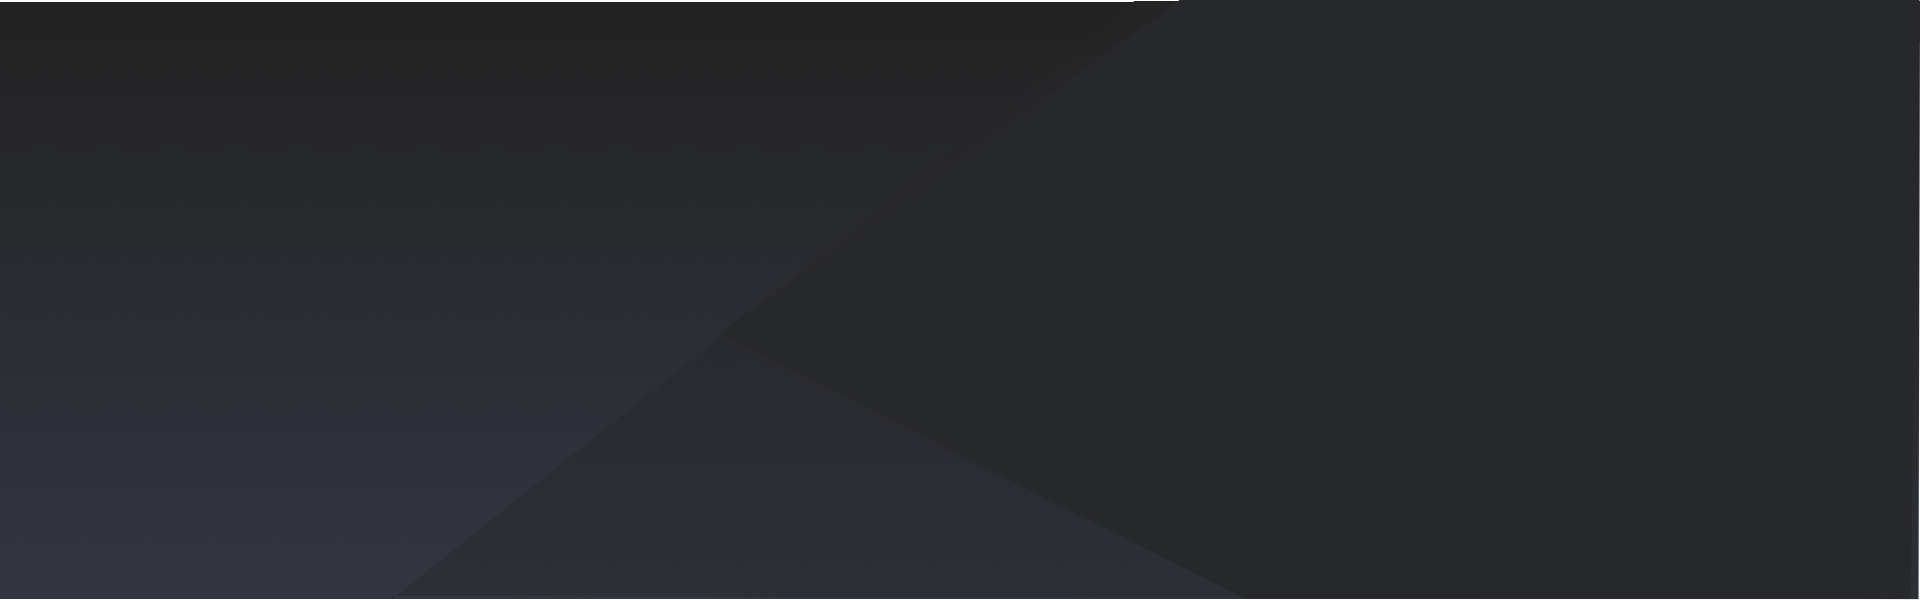
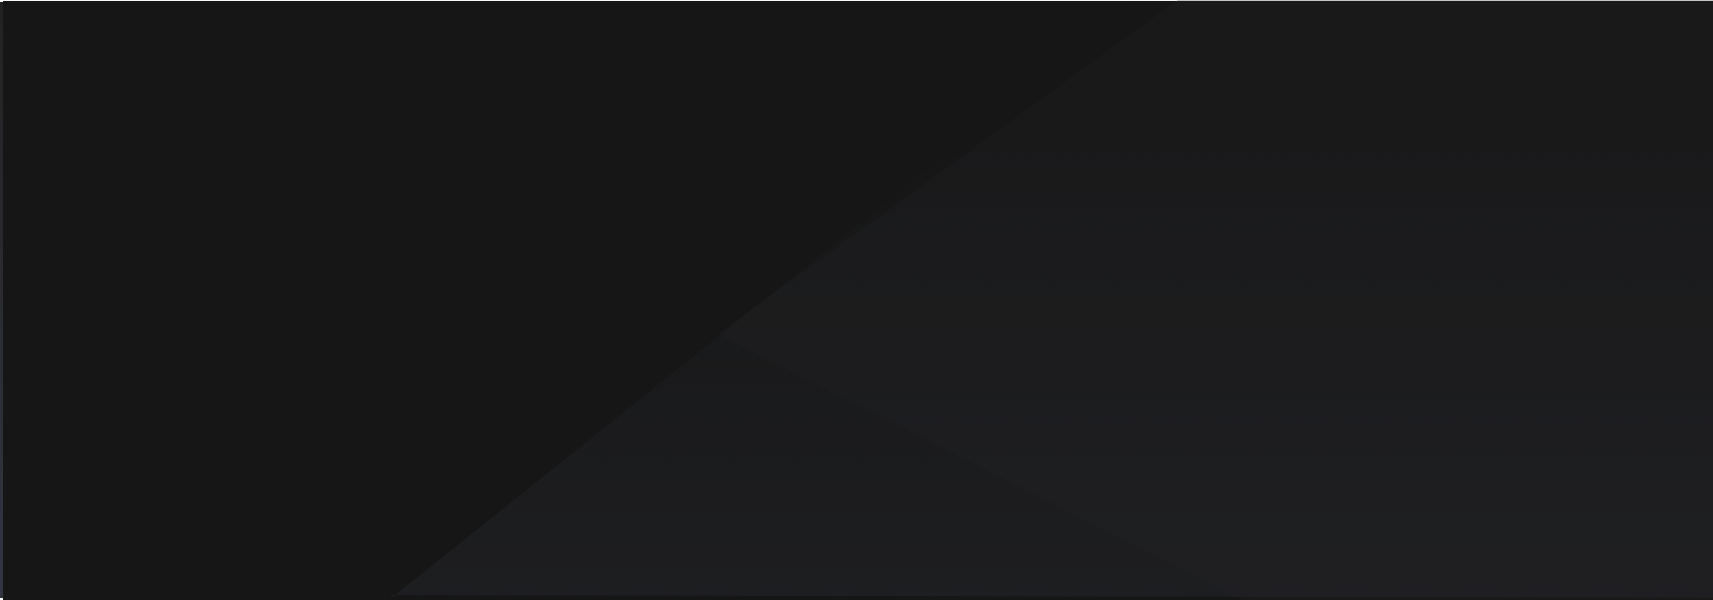
s

Changed region(s): [[0.0, 0.39, 1.0, 1.0]]

diff --git a/src/views/front/selecone/cloudmarket.vue b/src/views/front/selecone/cloudmarket.vue
@@ -148,12 +148,12 @@
     z-index:999999999;
 }
 
-.el-message-box__header{
-    background:#da121a !important;
-    border:1px solid #da121a !important;
-}
+
 .el-message-box__title span{
-    color:#fff !important;
+    color:#000 !important;
+}
+.el-message-box__headerbtn .el-message-box__close{
+    color:#da121a !important;
 }
 .el-message-box__headerbtn{
     top:8 !important
@@ -171,6 +171,7 @@
 .clofont span{
     font-size:14px;
     color:#999999;
+    padding-left:10px;
 }
 .el-dialog{
     
@@ -506,6 +507,14 @@
             display:inline-block;
             font-size:14px;
             color:#333333;
+
+        }
+        .spanbot{
+            float:left;
+        }
+        .spanbos{
+            float:right;
+            margin-left:0 !important;
         }
         .el-message-box{
             width:280px !important;

diff --git a/src/views/front/homePage.vue b/src/views/front/homePage.vue
@@ -960,7 +960,7 @@ ul,ol li {
     margin-top: 30px;
 }
 .lunmain {
-       /*background: url('../../assets/Rectangle 10.png') no-repeat;*/background:#27282c; background-size:100% 600px; width: 100%; height: 600px; 
+       background: url('../../assets/Rectangle 10.png') no-repeat; background-size:100% 600px; width: 100%; height: 600px; 
 }
 .lun2{
    background: url('../../assets/Bg2.png') no-repeat !important; background-size:100% 101% !important; width: 100% !important; height: 600px !important; 
